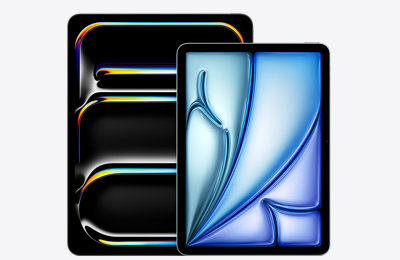
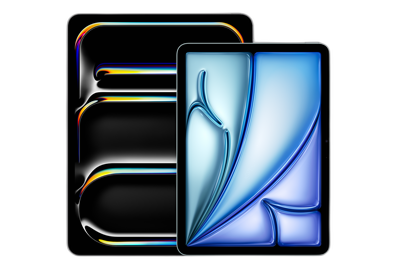
feat(category): rembg на iphone/mac/ipad/watch/airpods, новый samsung.png, уменьшить + усилить парение
- iphone/mac/ipad/watch/airpods: PNG с apple.com были opaque 100% (встроенный
  bg #f5f5f7); прогнаны через cjwbw/rembg, теперь 39-69% transparent.
- samsung.png: сгенерирован через nano-banana — Galaxy S26 Ultra + S25 + Fold7
  side by side, прогнан через rembg.
- taxonomy.samsung.icon → /themes/mobileax/categories/samsung.png
- CategoryGrid cards уменьшены: 170→140 width, 200→170 height, font 15→14px
- Парение: card hover -translate-y-2 + scale-[1.08], image group-hover scale-[1.12]

diff --git a/src/components/categories/CategoryGrid.tsx b/src/components/categories/CategoryGrid.tsx
@@ -136,10 +136,10 @@ export default function CategoryGrid() {
                     key={cat.slug}
                     href={categoryUrl(cat)}
                     data-category-card
-                    className="group relative flex flex-col flex-shrink-0 transition-transform duration-300 hover:scale-[1.04]"
+                    className="group relative flex flex-col flex-shrink-0 transition-all duration-500 ease-out hover:-translate-y-2 hover:scale-[1.08]"
                     style={{
-                      width: 'clamp(130px, 32vw, 170px)',
-                      height: 200,
+                      width: 'clamp(110px, 28vw, 140px)',
+                      height: 170,
                       scrollSnapAlign: 'start',
                       textDecoration: 'none',
                     }}
@@ -150,7 +150,7 @@ export default function CategoryGrid() {
                       <h3
                         className="font-semibold leading-tight tracking-tight text-center"
                         style={{
-                          fontSize: '0.9375rem',
+                          fontSize: '0.875rem',
                           letterSpacing: '-0.02em',
                           color: '#1d1d1f',
                         }}
@@ -159,14 +159,14 @@ export default function CategoryGrid() {
                       </h3>
                     </div>
 
-                    {/* Image — без card background, fills остальное */}
-                    <div className="relative flex-1 mt-2">
+                    {/* Image — без card background, парение */}
+                    <div className="relative flex-1 mt-1.5">
                       <Image
                         src={cat.icon}
                         alt={cat.label}
                         fill
-                        className="object-contain transition-transform duration-500 group-hover:scale-[1.04]"
-                        sizes="170px"
+                        className="object-contain transition-transform duration-500 ease-out group-hover:scale-[1.12]"
+                        sizes="140px"
                       />
                     </div>
                   </Link>

diff --git a/src/lib/taxonomy.ts b/src/lib/taxonomy.ts
@@ -107,7 +107,7 @@ export const CATEGORIES: Category[] = [
     slug: 'samsung',
     brand: 'Samsung',
     label: 'Samsung',
-    icon: '/themes/mobileax/heroes/iphone-17e.jpg', // TODO заменить на Samsung Galaxy S26 PNG
+    icon: '/themes/mobileax/categories/samsung.png',
     lines: [
       { slug: 's26-ultra', label: 'Galaxy S26 Ultra', searchQuery: 'Galaxy S26 Ultra' },
       { slug: 's26-plus', label: 'Galaxy S26+', searchQuery: 'Galaxy S26+' },
